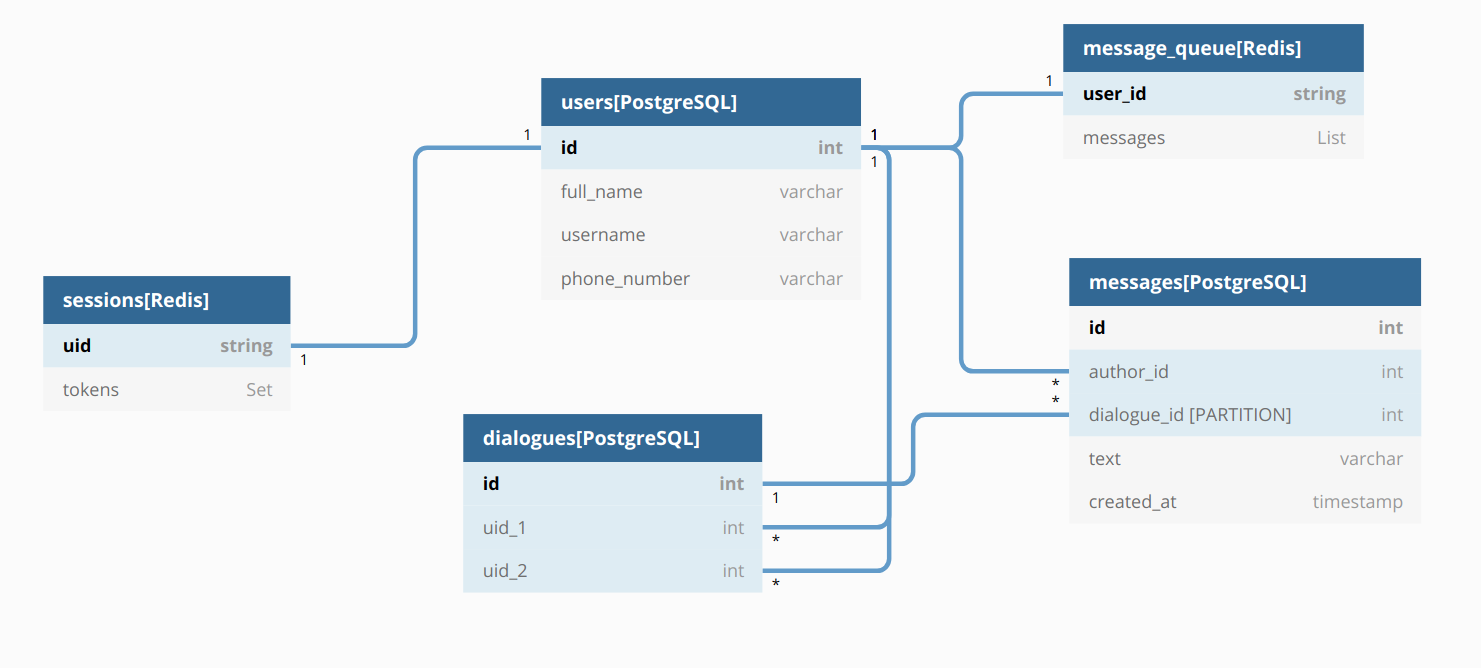
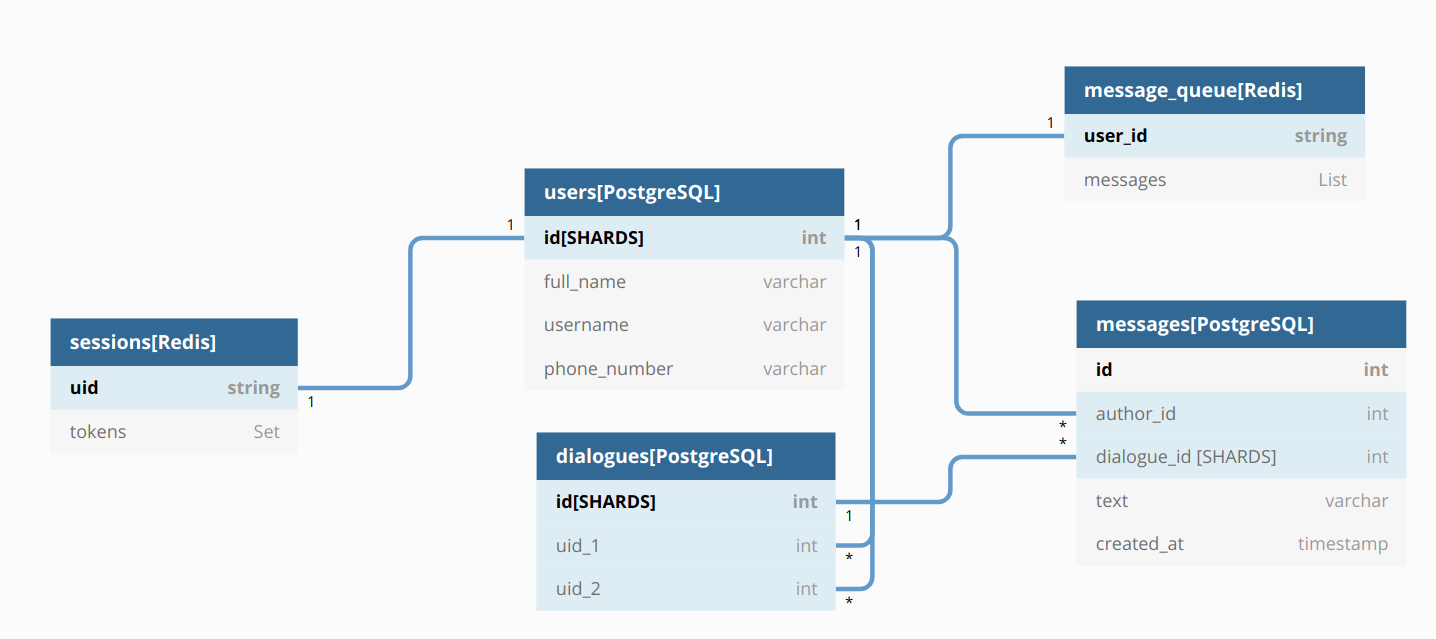
Update shards

diff --git a/README.md b/README.md
@@ -108,7 +108,7 @@
 
 Для хранения информации о сессиях используется база данных Redis по причине того, что она осуществляет хранение данных in-memory, имеет поддержку  неблокирующей репликации master-slave и возможность организации кластера Redis cluster.
 
-Для хранения очереди непрочитанных сообщений используется Redis cluster. Для каждого user_id сохраняется список, содержащий информацию о сообщениях, ожидающих получения. При запросе дельты сообщений список очищается. При отправке сообщения пользователю, не находящемуся в сети, оно добавляется в список. 
+Для хранения очереди непрочитанных сообщений используется Redis. Для каждого user_id сохраняется список, содержащий информацию о сообщениях, ожидающих получения. При запросе дельты сообщений список очищается. При отправке сообщения пользователю, не находящемуся в сети, оно добавляется в список. 
 
 ![](real_db.png)
 
@@ -130,7 +130,7 @@
 
 #### Шардирование и репликация
 
-Шардирование данных о сообщениях в PostgreSQL осуществляется по полю dialogue_id.
+Шардирование данных в PostgreSQL о пользователях и диалогах осуществляется по полю id, о сообщениях - по полю dialogue_id.
 
 Для повышения быстродействия системы хранилище сообщений возможно разбить на большое количество партиций. При создании 2048 партиций [PostgreSQL 12: Partitioning is now faster - 2ndQuadrant | PostgreSQL](https://www.2ndquadrant.com/en/blog/postgresql-12-partitioning/)) средний размер таблицы составит 40.5 ГБ.  
 
@@ -188,7 +188,7 @@ Frontend Framework: Vue.js, так как он поддерживает TypeScri
 
 Очистка очереди сообщений: 2'025 RPS
 
-Redis способен обрабатывать 100'000 RPS на строках в 4КБ ([How fast is Redis? – Redis](https://redis.io/topics/benchmarks)), что превышает возможные пиковые нагрузки (12150+2025+2025) * 3 = 48'600 RPS
+Redis способен обрабатывать 100'000 RPS на строках в 4КБ ([How fast is Redis? – Redis](https://redis.io/topics/benchmarks)), что превышaает возможные пиковые нагрузки (12150+2025+2025) * 3 = 48'600 RPS
 
 Средний объем данных очереди сообщений: 10 ГБ
 
